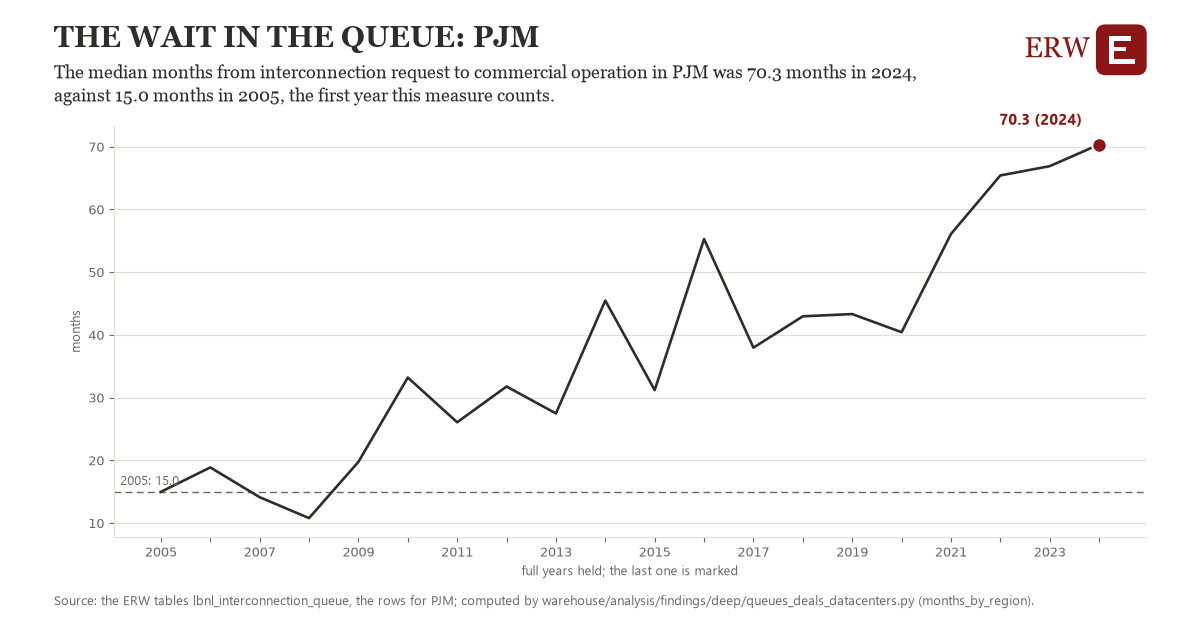
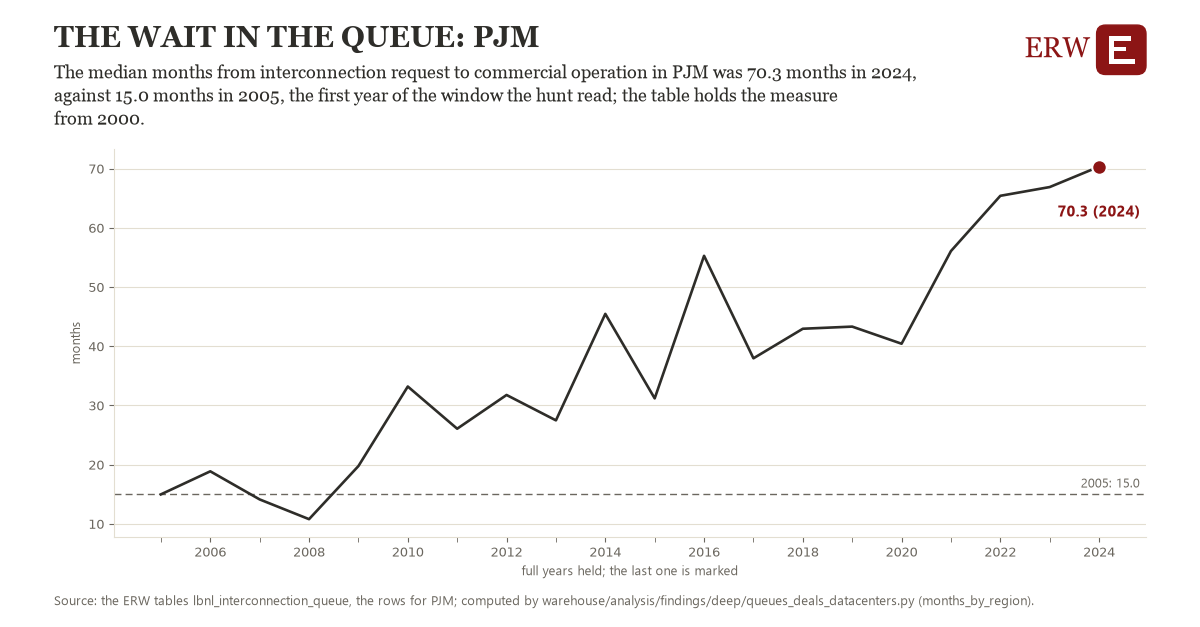
Session 9820: findings charts 51 to 60 drawn again (two citygate charts now show their missing years as gaps); drafts stay drafts

diff --git a/docs/reviews/findings-charts-2026-11-20.md b/docs/reviews/findings-charts-2026-11-20.md
@@ -71,5 +71,15 @@ Energy Research Warehouse (ERW). Written by the desktop's fourth window, session
 | 48 | [other_us/util-total-u861-19876-va](https://github.com/SamuelEnrique/erw/blob/main/docs/findings/other_us/util-total-u861-19876-va.png) | 1 (sentence mended) | the line under the title still had the sentence's old words; the first year's label (2017: 76.62) sat on the line | drawn again: the mended sentence drawn in; label moved clear of the line; the image's figure 94.56 is the draft's |
 | 49 | [other_us/util-total-u861-6452-fl](https://github.com/SamuelEnrique/erw/blob/main/docs/findings/other_us/util-total-u861-6452-fl.png) | 1 (sentence mended) | the line under the title still had the sentence's old words; the first year's label (2017: 108.51) sat on the line | drawn again: the mended sentence drawn in; label moved clear of the line; the image's figure 129.98 is the draft's |
 | 50 | [prices/europe-gas-premium-us-europe-gas](https://github.com/SamuelEnrique/erw/blob/main/docs/findings/prices/europe-gas-premium-us-europe-gas.png) | 1 (sentence mended) | the line under the title still had the sentence's old words; the marked figure (8.44 (2025)) sat on the line; no ink zero line (docs/brand.md, section 6), though zero is on the scale; the marked year 2025 had no label on the axis | drawn again: the mended sentence drawn in; label moved clear of the line; ink zero line drawn; axis labels counted back from the marked year; the image's figure 8.44 is the draft's |
+| 51 | [prices/japan-lng-premium-us-japan-lng](https://github.com/SamuelEnrique/erw/blob/main/docs/findings/prices/japan-lng-premium-us-japan-lng.png) | 1 (sentence mended) | the line under the title still had the sentence's old words; the marked figure (8.51 (2025)) sat on the line; no ink zero line (docs/brand.md, section 6), though zero is on the scale; the marked year 2025 had no label on the axis | drawn again: the mended sentence drawn in; label moved clear of the line; ink zero line drawn; axis labels counted back from the marked year; the image's figure 8.51 is the draft's |
+| 52 | [prices/power-vs-citygate-state-pow-ne](https://github.com/SamuelEnrique/erw/blob/main/docs/findings/prices/power-vs-citygate-state-pow-ne.png) | 1 (sentence mended) | the line under the title still had the sentence's old words; the first year's label (2002: -0.23) sat on the line; no ink zero line (docs/brand.md, section 6), though zero is on the scale; missing years (2008, 2009, 2010) drawn as if one year apart | drawn again: the mended sentence drawn in; label moved clear of the line; ink zero line drawn; years at their own places, the line broken over the missing years, each year a point; the image's figure 2.34 is the draft's |
+| 53 | [prices/power-vs-citygate-state-pow-wv](https://github.com/SamuelEnrique/erw/blob/main/docs/findings/prices/power-vs-citygate-state-pow-wv.png) | 1 (sentence mended) | the line under the title still had the sentence's old words; the first year's label (2002: -0.39) sat on the line; no ink zero line (docs/brand.md, section 6), though zero is on the scale; missing years (2004, 2005, 2006, 2007, 2008, 2009 ...) drawn as if one year apart | drawn again: the mended sentence drawn in; label moved clear of the line; ink zero line drawn; years at their own places, the line broken over the missing years, each year a point; the image's figure -3.20 is the draft's |
+| 54 | [queues_deals_datacenters/hybrid-share-us-lbnl-hybrid](https://github.com/SamuelEnrique/erw/blob/main/docs/findings/queues_deals_datacenters/hybrid-share-us-lbnl-hybrid.png) | 1 (sentence mended) | the line under the title still had the sentence's old words; the first year's label (2005: 0.0) sat on the line; no ink zero line (docs/brand.md, section 6), though zero is on the scale; the marked year 2024 had no label on the axis | drawn again: the mended sentence drawn in; label moved clear of the line; ink zero line drawn; axis labels counted back from the marked year; the image's figure 37.0 is the draft's |
+| 55 | [queues_deals_datacenters/months-by-region-pjm-lbnl-months](https://github.com/SamuelEnrique/erw/blob/main/docs/findings/queues_deals_datacenters/months-by-region-pjm-lbnl-months.png) | 1 (sentence mended) | the line under the title still had the sentence's old words; the first year's label (2005: 15.0) sat on the line; the marked year 2024 had no label on the axis | drawn again: the mended sentence drawn in; label moved clear of the line; axis labels counted back from the marked year; the image's figure 70.3 is the draft's |
+| 56 | [queues_deals_datacenters/months-by-region-us-lbnl-months](https://github.com/SamuelEnrique/erw/blob/main/docs/findings/queues_deals_datacenters/months-by-region-us-lbnl-months.png) | 1 (sentence mended) | the line under the title still had the sentence's old words; the first year's label (2005: 17.6) sat on the line; the marked year 2024 had no label on the axis | drawn again: the mended sentence drawn in; label moved clear of the line; axis labels counted back from the marked year; the image's figure 62.8 is the draft's |
+| 57 | [queues_deals_datacenters/months-by-type-us-type-wind-months](https://github.com/SamuelEnrique/erw/blob/main/docs/findings/queues_deals_datacenters/months-by-type-us-type-wind-months.png) | 1 (sentence mended) | the line under the title still had the sentence's old words; the first year's label (2005: 21.1) sat on the line; the marked year 2024 had no label on the axis | drawn again: the mended sentence drawn in; label moved clear of the line; axis labels counted back from the marked year; the image's figure 81.1 is the draft's |
+| 58 | [queues_deals_datacenters/request-size-us-type-wind-size](https://github.com/SamuelEnrique/erw/blob/main/docs/findings/queues_deals_datacenters/request-size-us-type-wind-size.png) | 1 (sentence mended) | the line under the title still had the sentence's old words; the first year's label (2005: 81.0) sat on the line; the marked figure (200.0 (2024)) sat on the line; the marked year 2024 had no label on the axis | drawn again: the mended sentence drawn in; label moved clear of the line; axis labels counted back from the marked year; the image's figure 200.0 is the draft's |
+| 59 | [queues_deals_datacenters/requested-by-type-us-req-battery](https://github.com/SamuelEnrique/erw/blob/main/docs/findings/queues_deals_datacenters/requested-by-type-us-req-battery.png) | 1 (sentence mended) | the line under the title still had the sentence's old words; the marked figure (157,429 (2024)) sat on the line; no ink zero line (docs/brand.md, section 6), though zero is on the scale; the marked year 2024 had no label on the axis | drawn again: the mended sentence drawn in; label moved clear of the line; ink zero line drawn; axis labels counted back from the marked year; the image's figure 157,429 is the draft's |
+| 60 | [queues_deals_datacenters/requested-by-type-us-req-gas](https://github.com/SamuelEnrique/erw/blob/main/docs/findings/queues_deals_datacenters/requested-by-type-us-req-gas.png) | 1 (sentence mended) | the line under the title still had the sentence's old words; the marked year 2024 had no label on the axis | drawn again: the mended sentence drawn in; axis labels counted back from the marked year; the image's figure 77,929 is the draft's |
 
-50 charts so far.
+60 charts so far.
